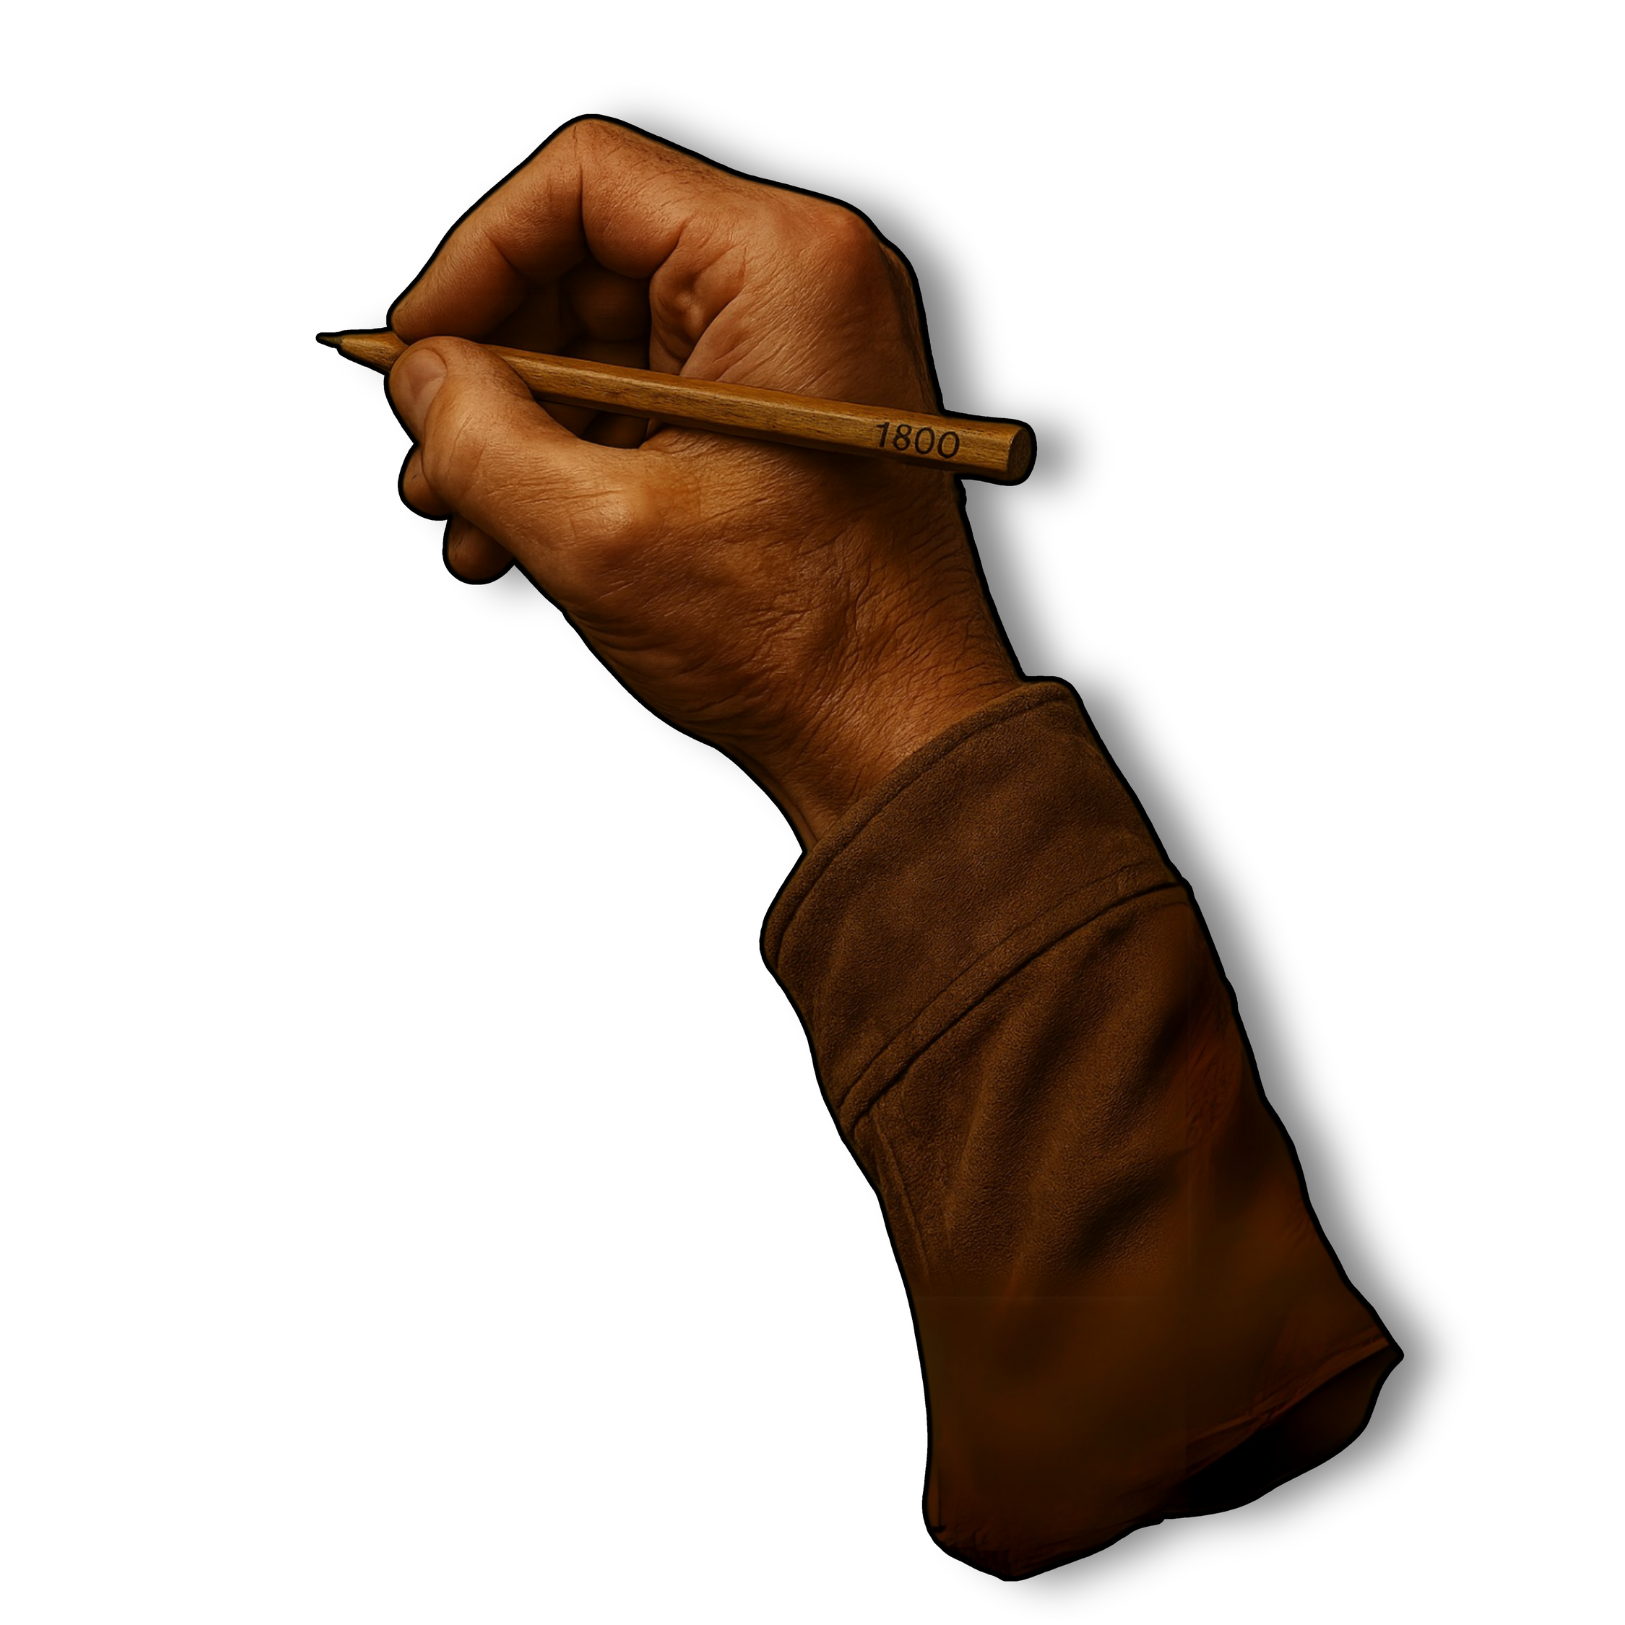
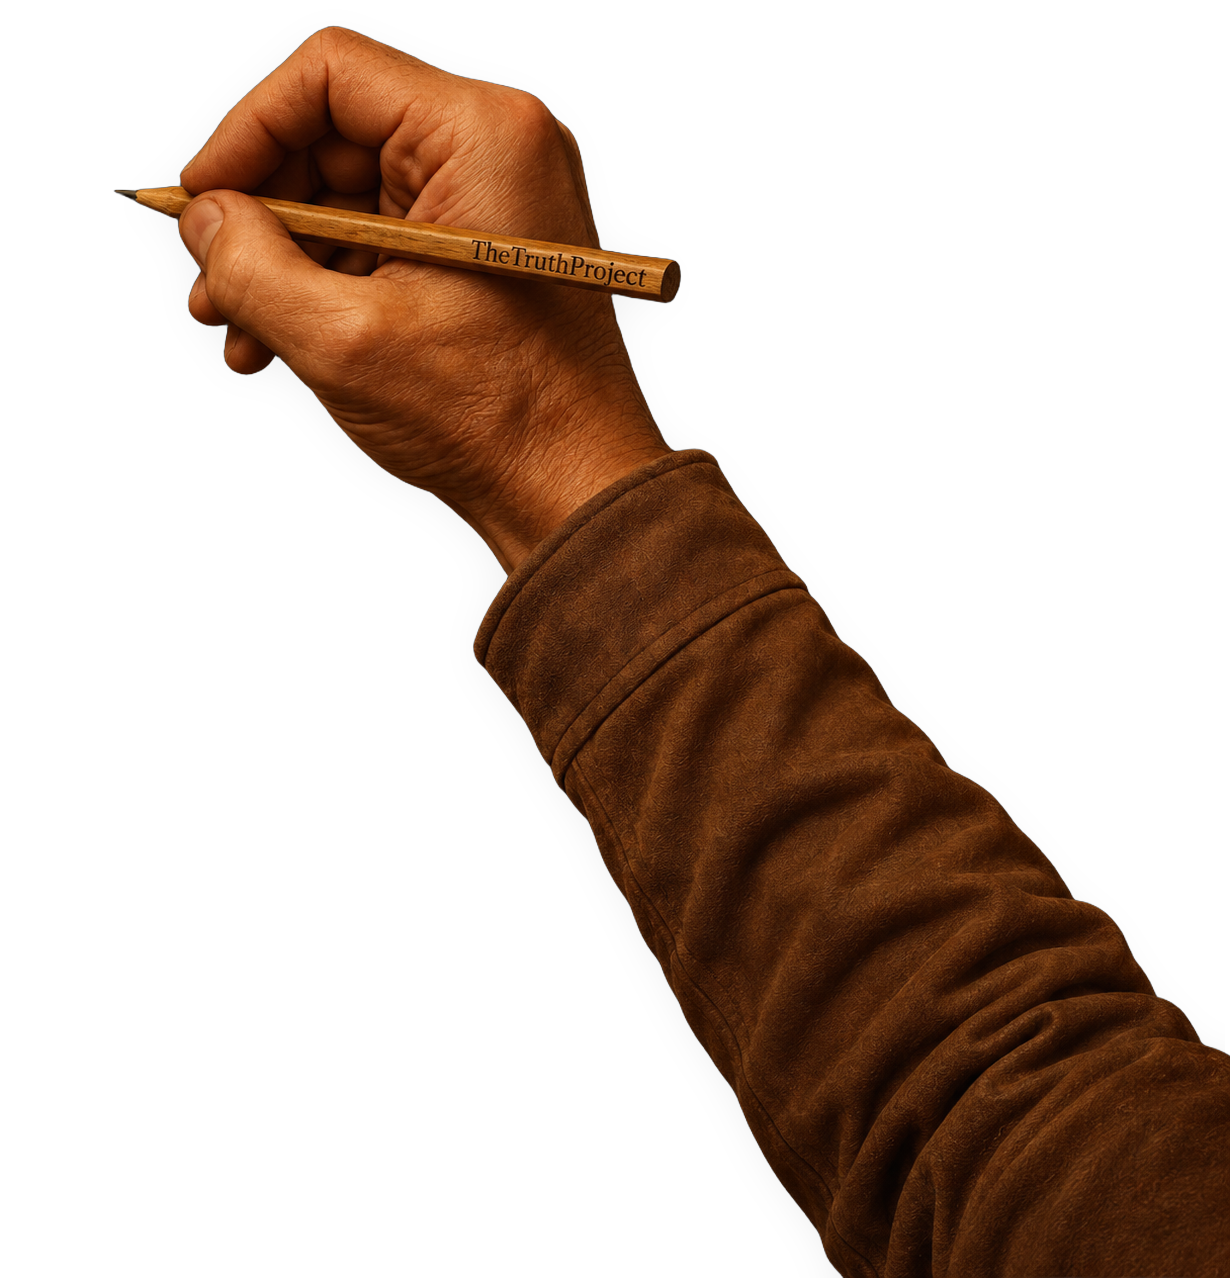
New built-in hand; instruct model by default as experimental.19
- Built-in hand replaced with the new pencil hand; defaults calibrated by
  the user: Hand scale 0.75, Pen tip X 0.08, Pen tip Y 0.13.
- Plain qwen3-vl:4b in Ollama is the thinking variant and ignores
  think:false, so complex images could exhaust the token budget with no
  answer. Default and first choice is now qwen3-vl:4b-instruct (8b/2b
  instruct also listed). Clear error with the install command when a
  thinking model never answers, and when a model is not installed.

Claude-Session: https://claude.ai/code/session_0195B8qbd2Rtb3BBDLoVdzKJ

Changed region(s): [[0.0927, 0.0, 1.0, 1.0]]

diff --git a/semantic_redraw.py b/semantic_redraw.py
@@ -31,7 +31,10 @@ from image_trace import trace_image
 from engine import Drawing, Stroke
 
 OLLAMA_ENDPOINT = 'http://127.0.0.1:11434/api/chat'
-DEFAULT_MODEL = 'qwen3-vl:4b'
+# Plain 'qwen3-vl:4b' in Ollama is the THINKING variant: it always reasons
+# before answering and ignores think:false, which can use up the whole token
+# budget with no answer. The instruct variant answers directly (and faster).
+DEFAULT_MODEL = 'qwen3-vl:4b-instruct'
 MAX_PARTS = 14
 
 PART_SCHEMA = {
@@ -199,6 +202,7 @@ def local_vision_analysis(image, model=DEFAULT_MODEL, timeout=180, *, profile='b
     buffer=io.BytesIO();background.convert('RGB').save(buffer,format='PNG')
     encoded=base64.b64encode(buffer.getvalue()).decode('ascii')
     errors=[]; budget=INITIAL_TOKENS; format_value=PART_SCHEMA; retry_kind=''
+    reasoned_without_answer=False
     deadline=time.monotonic()+timeout*2
     for attempt in range(2):
         remaining=deadline-time.monotonic()
@@ -230,7 +234,7 @@ def local_vision_analysis(image, model=DEFAULT_MODEL, timeout=180, *, profile='b
         except HTTPError as exc:
             detail=exc.read(500).decode('utf-8','replace')
             if exc.code==404:
-                raise RuntimeError(f'Ollama could not find local model {model!r}. Check "ollama list" and the selected model name.') from exc
+                raise RuntimeError(f'Ollama could not find local model {model!r}. Install it by running this in a terminal: ollama pull {model}  (or pick an installed model; check "ollama list").') from exc
             schema_error=exc.code in (400,422) and any(
                 word in detail.lower() for word in ('schema','format','grammar'))
             if schema_error and attempt==0:
@@ -259,7 +263,10 @@ def local_vision_analysis(image, model=DEFAULT_MODEL, timeout=180, *, profile='b
         if finish=='length':
             has_thinking=bool(message.get('thinking')) or '<think' in str(message.get('content','')).lower()
             reason='generation limit exhausted'
-            if has_thinking:reason+=' while reasoning was present despite think:false'
+            if has_thinking:
+                reason+=' while reasoning was present despite think:false'
+                if not str(message.get('content','')).strip():
+                    reasoned_without_answer=True
             errors.append(summary+'; '+reason)
             retry_kind='length';budget=RETRY_TOKENS;format_value='json'
             continue
@@ -271,6 +278,14 @@ def local_vision_analysis(image, model=DEFAULT_MODEL, timeout=180, *, profile='b
         except (ValueError,KeyError,AttributeError,TypeError) as exc:
             errors.append(summary+'; '+str(exc))
             retry_kind='json';format_value='json'
+    if reasoned_without_answer:
+        raise ValueError(
+            f'The model {model!r} kept reasoning and never wrote an answer. It is a '
+            '"thinking" model, which ignores the request to answer directly; complex '
+            'images can use up its whole budget. Use the instruct version instead: '
+            'in a terminal run  ollama pull qwen3-vl:4b-instruct  then choose '
+            'qwen3-vl:4b-instruct as the Local AI model. No Auto Trace fallback was '
+            'used. Details: '+' | '.join(errors))
     raise ValueError(
         'Local AI could not produce usable image-part JSON after a second attempt. '
         +' | '.join(errors)+

diff --git a/studio_workspace.py b/studio_workspace.py
@@ -346,8 +346,10 @@ def build_workspace(w, Canvas, BRAND_ICON):
     image_form.addRow('Method',w.image_mode)
     w.ai_model=QComboBox()
     w.ai_model.setEditable(True)
-    w.ai_model.addItems(['qwen3-vl:4b','qwen3-vl:2b','qwen3-vl:8b'])
-    w.ai_model.setToolTip('Ollama vision model, running locally on your PC. Requires separate model download.')
+    # Instruct models answer directly; plain qwen3-vl tags are thinking models.
+    w.ai_model.addItems(['qwen3-vl:4b-instruct','qwen3-vl:8b-instruct','qwen3-vl:2b-instruct',
+                         'qwen3-vl:4b','qwen3-vl:8b','qwen3-vl:2b'])
+    w.ai_model.setToolTip('Ollama vision model, running locally on your PC. Install once with: ollama pull qwen3-vl:4b-instruct. Instruct models answer directly and are recommended.')
     image_form.addRow('Local AI model',w.ai_model)
     w.ai_profile=QComboBox()
     w.ai_profile.addItems(['Fast','Balanced','Quality'])
@@ -537,8 +539,9 @@ def build_workspace(w, Canvas, BRAND_ICON):
     hand_l.addWidget(caption('Calibrate the pencil tip to your hand PNG for accurate tracing.'))
     h=form_layout();hand_l.addLayout(h)
     w.handsize=w.number(.02,.8,.75,.01);h.addRow('Hand scale',w.handsize)
-    w.ax=w.number(0,1,.20,.01);h.addRow('Pen tip X',w.ax)
-    w.ay=w.number(0,1,.20,.01);h.addRow('Pen tip Y',w.ay)
+    # Defaults calibrated for the built-in hand (assets/default_hand.png).
+    w.ax=w.number(0,1,.08,.01);h.addRow('Pen tip X',w.ax)
+    w.ay=w.number(0,1,.13,.01);h.addRow('Pen tip Y',w.ay)
     hand_l.addStretch(1)
     tabs.addTab(scroll_view(hand),'Hand')
 

diff --git a/app.py b/app.py
@@ -122,7 +122,7 @@ class ImageBuilder(QThread):
     failed=Signal(str)
     stage=Signal(str,int,bool)
     analysis_ready=Signal(object)
-    def __init__(self,path,mode,detail,brush_width,spacing,ai_model='qwen3-vl:4b',
+    def __init__(self,path,mode,detail,brush_width,spacing,ai_model='qwen3-vl:4b-instruct',
                  cached_analysis=None,ai_profile='balanced'):
         super().__init__()
         self.path=path; self.mode=mode; self.detail=detail
@@ -613,7 +613,7 @@ class Window(QMainWindow):
             if image.isNull(): QMessageBox.warning(self,'Hand','Could not read PNG.'); return
             self.hand=image; self.hand_name.setText('Hand: '+Path(name).name); self.refresh()
     def use_builtin_hand(self,refresh=True):
-        """Load the bundled StrokeScribe hand (pencil tip at about X 0.20, Y 0.20)."""
+        """Load the bundled StrokeScribe hand (calibrated pencil tip X 0.08, Y 0.13)."""
         image=QImage(str(DEFAULT_HAND)) if DEFAULT_HAND.is_file() else QImage()
         if image.isNull():
             self.hand_name.setText('Hand: none (built-in hand file missing)'); return

diff --git a/test_ollama_reliability.py b/test_ollama_reliability.py
@@ -42,6 +42,15 @@ class OllamaReliabilityTests(unittest.TestCase):
         self.assertEqual(call.call_count,2)
         self.assertNotIn('secret image analysis',str(error.exception))
         self.assertIn('No Auto Trace fallback',str(error.exception))
+        # Plain-language guidance toward the instruct model, with the command.
+        self.assertIn('thinking',str(error.exception))
+        self.assertIn('ollama pull qwen3-vl:4b-instruct',str(error.exception))
+
+    def test_missing_model_message_gives_install_command(self):
+        missing=HTTPError(OLLAMA_ENDPOINT,404,'not found',{},io.BytesIO(b'model not found'))
+        with patch('semantic_redraw.urlopen',side_effect=missing):
+            with self.assertRaisesRegex(RuntimeError,'ollama pull qwen3-vl:4b-instruct'):
+                local_vision_analysis(artwork(),model='qwen3-vl:4b-instruct')
 
     def test_truncation_retried_without_inventing_missing_json(self):
         broken='{"description":"x","parts":[{"name":"body","box":[1,2'

diff --git a/test_studio.py b/test_studio.py
@@ -72,10 +72,10 @@ class StudioTests(unittest.TestCase):
         self.assertTrue(DEFAULT_HAND.is_file())
         self.assertIsNotNone(w.hand)
         self.assertFalse(w.hand.isNull())
-        self.assertEqual((w.hand.width(),w.hand.height()),(1625,1625))
+        self.assertEqual((w.hand.width(),w.hand.height()),(1230,1278))
         self.assertIn('built-in',w.hand_name.text())
         # Calibration defaults match the pencil tip in the bundled image.
-        self.assertAlmostEqual(w.ax.value(),.20); self.assertAlmostEqual(w.ay.value(),.20)
+        self.assertAlmostEqual(w.ax.value(),.08); self.assertAlmostEqual(w.ay.value(),.13)
         self.assertAlmostEqual(w.handsize.value(),.75)
         w.hand=None; w.use_builtin_hand()
         self.assertFalse(w.hand.isNull())

diff --git a/test_ai_profiles.py b/test_ai_profiles.py
@@ -85,7 +85,9 @@ class ProfileTests(unittest.TestCase):
             self.assertIn(f'1 to {parts} visible objects or parts',
                           request['messages'][0]['content'])
             self.assertEqual(request['think'],False)
-            self.assertEqual(request['model'],'qwen3-vl:4b')
+            from semantic_redraw import DEFAULT_MODEL
+            self.assertEqual(request['model'],DEFAULT_MODEL)
+            self.assertEqual(DEFAULT_MODEL,'qwen3-vl:4b-instruct')
             raw=base64.b64decode(request['messages'][0]['images'][0])
             with Image.open(io.BytesIO(raw)) as sent:
                 self.assertLessEqual(max(sent.size),size)

diff --git a/image_reconstruct.py b/image_reconstruct.py
@@ -34,7 +34,7 @@ def load_raster(filename):
     # Opaque backgrounds are intentionally retained; this is not background removal.
     return image.crop(bbox)
 
-def reconstruct(filename,mode='auto_trace',detail='medium',ai_model='qwen3-vl:4b',ai_analysis=None,ai_profile='balanced'):
+def reconstruct(filename,mode='auto_trace',detail='medium',ai_model='qwen3-vl:4b-instruct',ai_analysis=None,ai_profile='balanced'):
     if mode not in ('auto_trace','stroke_reconstruction','ai_redraw'):
         raise ValueError('Choose Auto Trace, Stroke Reconstruction, or AI Redraw.')
     if detail not in ('low','medium','high'):

diff --git a/test_font_features.py b/test_font_features.py
@@ -101,8 +101,9 @@ class FontAndScaleTests(unittest.TestCase):
         w=Window()
         try:
             self.assertAlmostEqual(w.handsize.value(),.75)
-            self.assertAlmostEqual(w.ax.value(),.20)
-            self.assertAlmostEqual(w.ay.value(),.20)
+            # Defaults are calibrated for the bundled built-in hand.
+            self.assertAlmostEqual(w.ax.value(),.08)
+            self.assertAlmostEqual(w.ay.value(),.13)
             self.assertTrue(w.showhand.isChecked())
             self.assertTrue(w.show_paint_hand.isChecked())
             self.assertEqual(w.font_bg_mode.currentIndex(),0)

diff --git a/version.py b/version.py
@@ -3,7 +3,7 @@
 Increment APP_VERSION for each new downloadable prototype release.
 """
 APP_NAME = "StrokeScribe"
-APP_VERSION = "0.5.3-experimental.18"
+APP_VERSION = "0.5.3-experimental.19"
 RELEASE_CHANNEL = "Prototype"
 RELEASE_DATE = "2026-10-15"
 DISPLAY_NAME = f"{APP_NAME} — {RELEASE_CHANNEL} v{APP_VERSION}"
